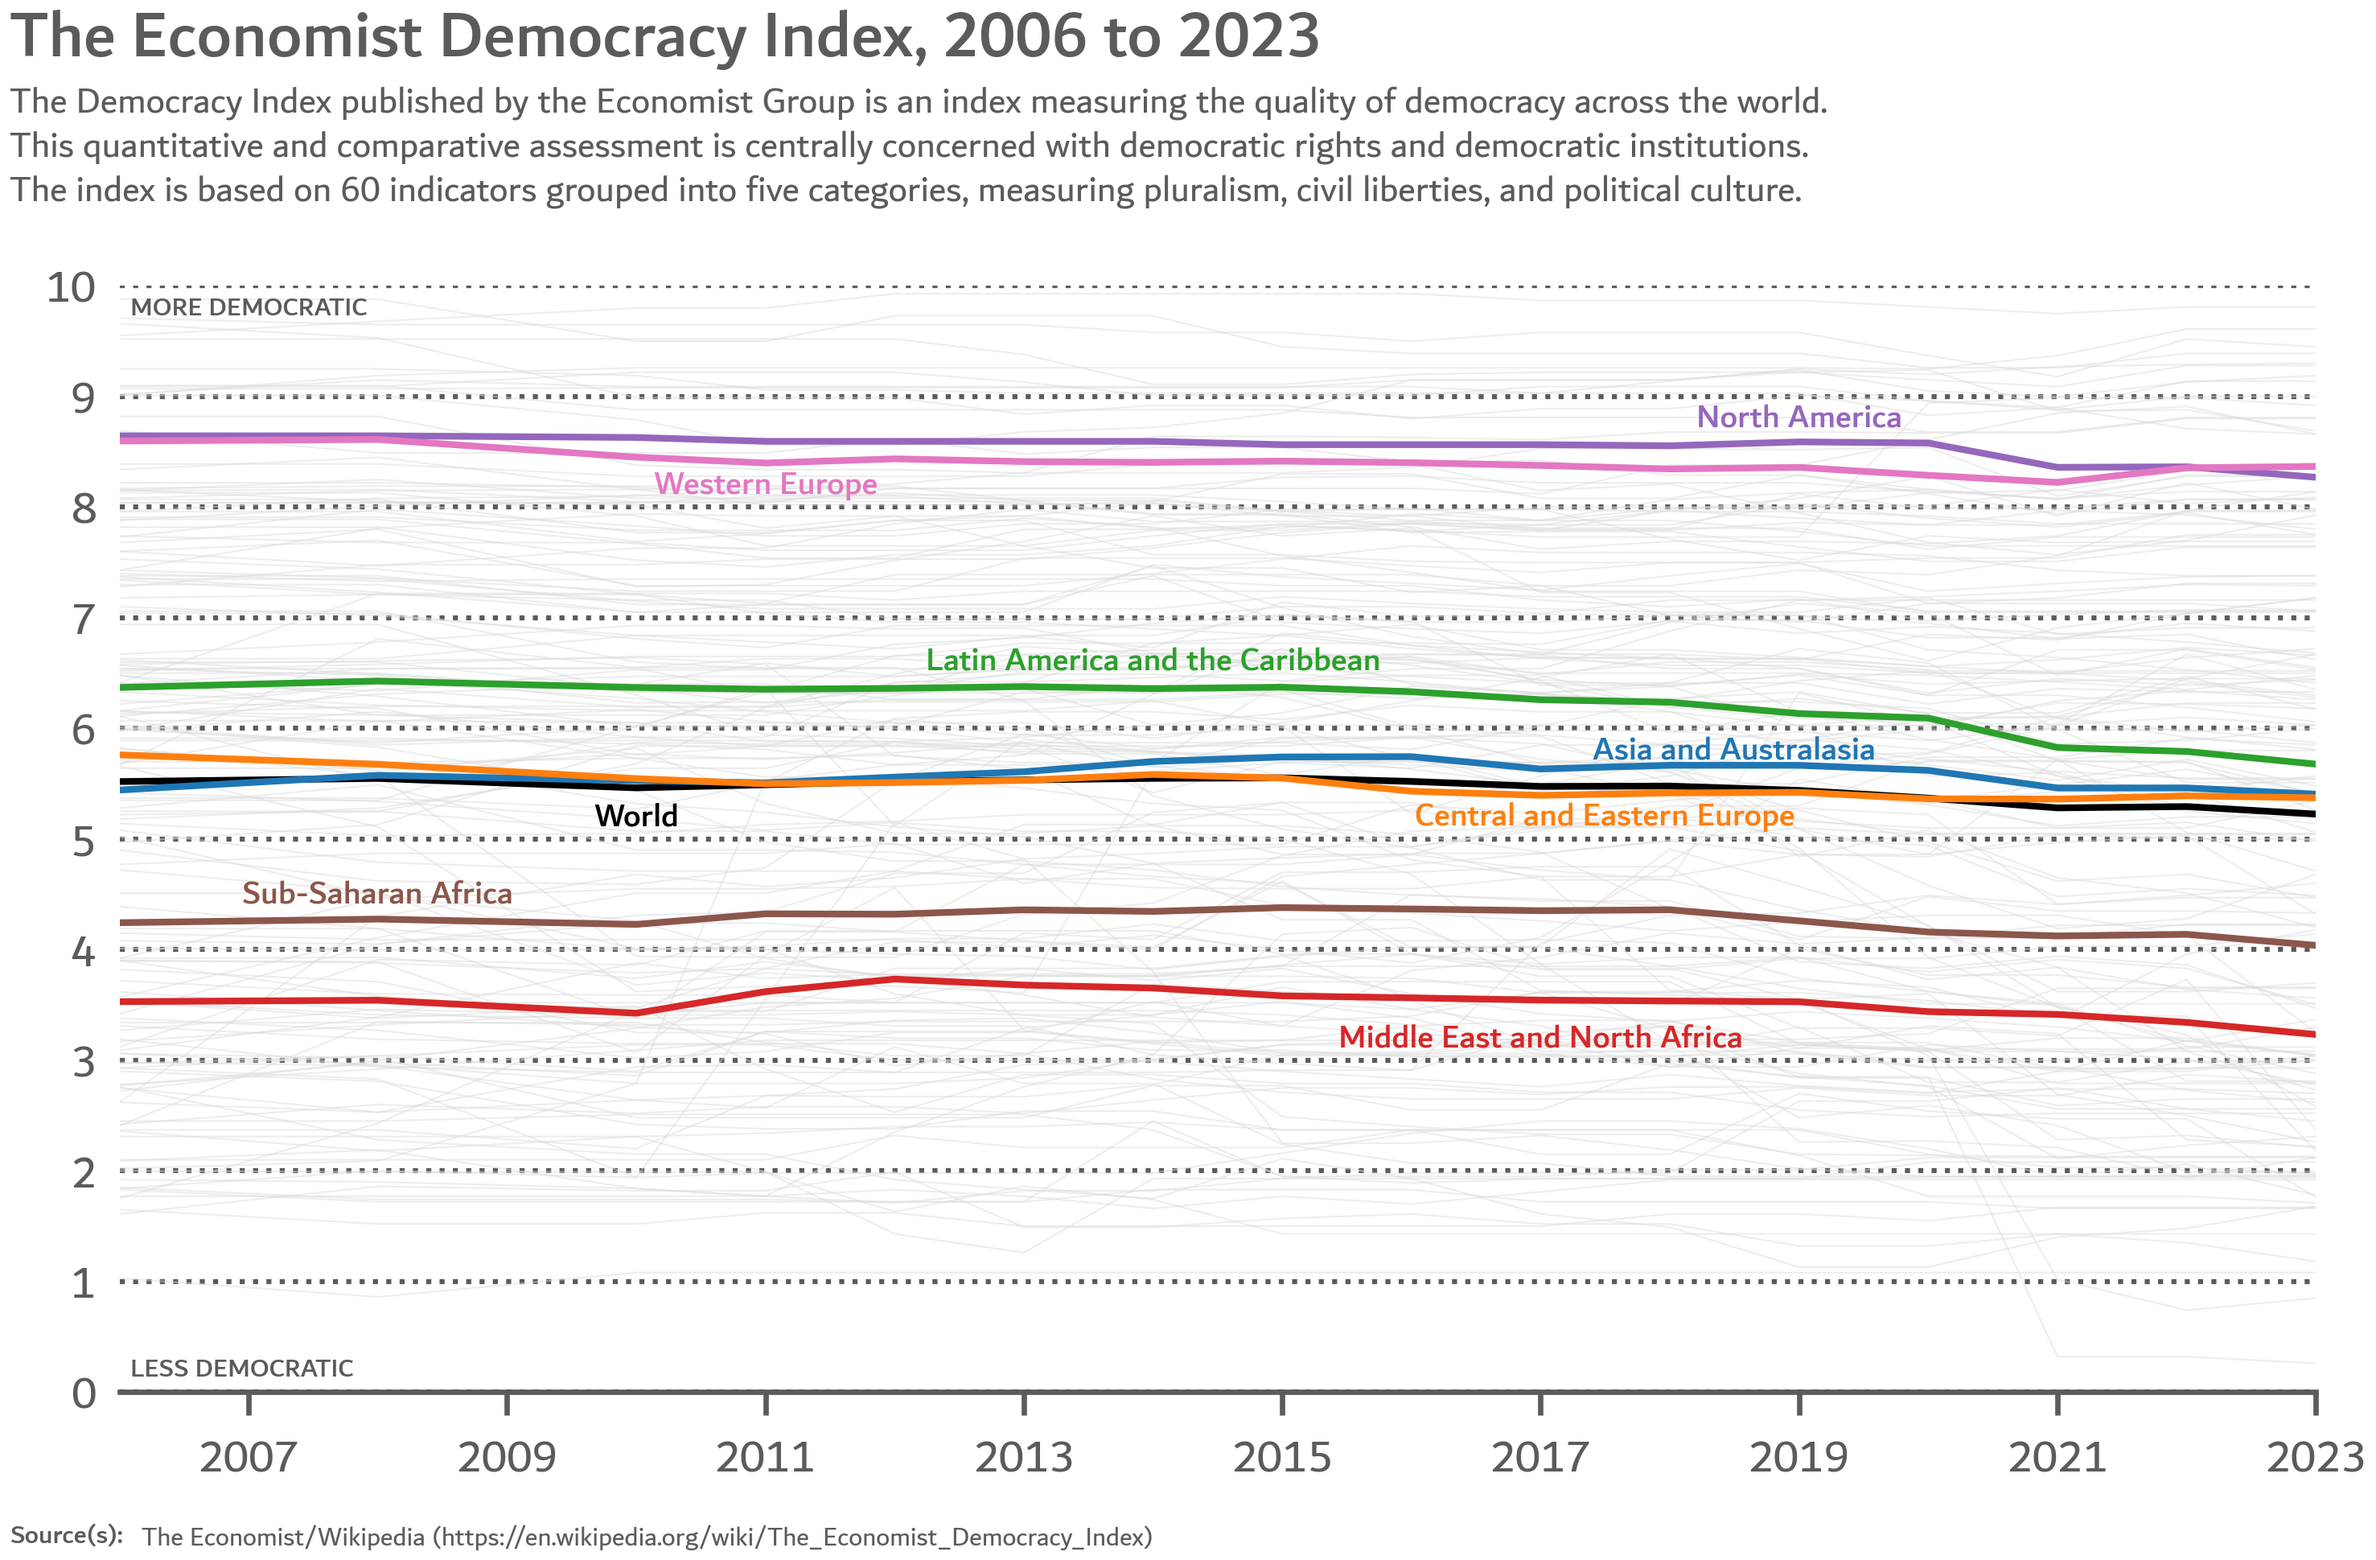
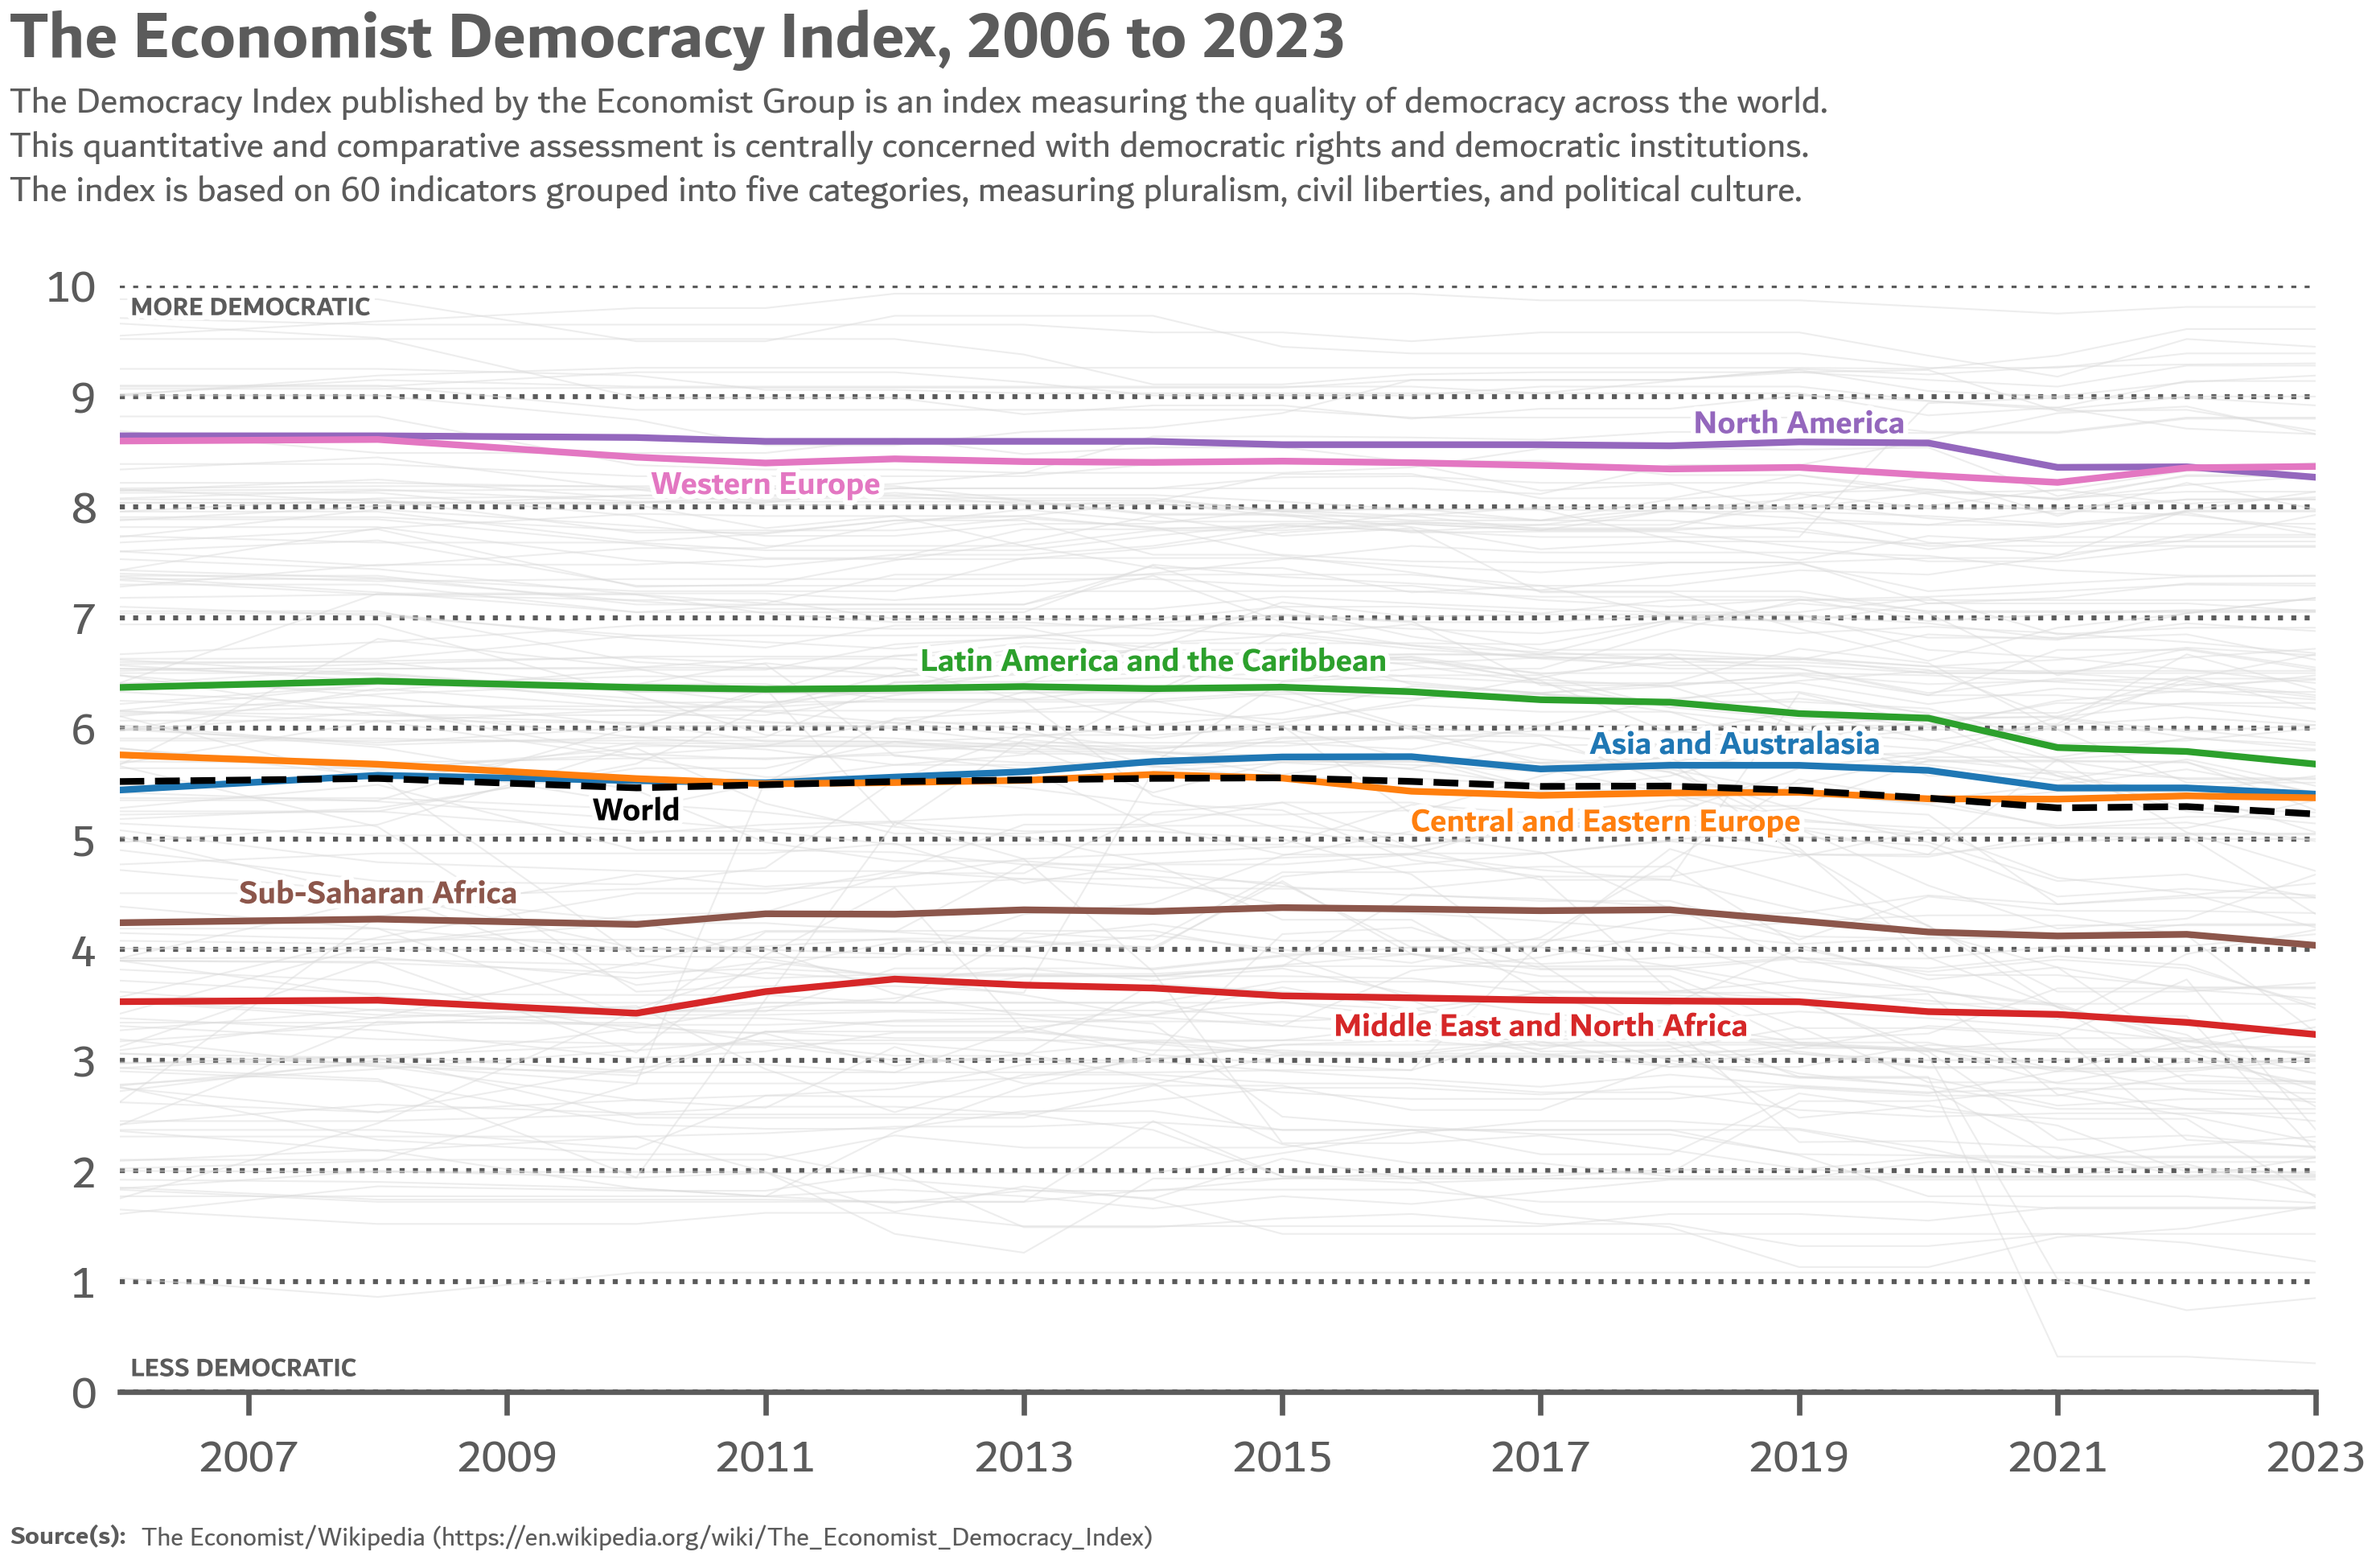
Add white stroke to texts.

diff --git a/code/economist_democracy.py b/code/economist_democracy.py
@@ -1,6 +1,7 @@
 from colors import Colors
 import pandas as pd
 import matplotlib.pyplot as plt
+import matplotlib.patheffects as pe
 plt.style.use("./styles/line.mplstyle")
 
 
@@ -65,29 +66,45 @@ class DemocracyFigures:
 
         world_df = self.data.get_world_average()
         ax.plot(world_df["Year"], world_df["DemocracyIndex"],
-                color=colors.LINE)
+                color=colors.LINE, ls="--", zorder=15)
 
         region_df = self.data.get_region_averages()
         for i, region in enumerate(region_df["Region"].unique()):
             region_data = region_df[region_df["Region"] == region]
             ax.plot(region_data["Year"], region_data["DemocracyIndex"],
                     color=colors.PALETTE[i])
-        ax.text(s="Asia and Australasia", x=2018.5, y=5.8,
-                va="center", ha="center", color=colors.PALETTE[0], weight=600)
-        ax.text(s="Central and Eastern Europe", x=2017.5, y=5.2,
-                va="center", ha="center", color=colors.PALETTE[1], weight=600)
+        ax.text(s="Asia and Australasia", x=2018.5, y=5.85,
+                va="center", ha="center", color=colors.PALETTE[0], weight=600,
+                path_effects=[pe.withStroke(
+                    linewidth=1.5, foreground="w")])
+        ax.text(s="Central and Eastern Europe", x=2017.5, y=5.15,
+                va="center", ha="center", color=colors.PALETTE[1], weight=600,
+                path_effects=[pe.withStroke(
+                    linewidth=1.5, foreground="w")])
         ax.text(s="Latin America and the Caribbean", x=2014, y=6.6,
-                va="center", ha="center", color=colors.PALETTE[2], weight=600)
-        ax.text(s="Middle East and North Africa", x=2017, y=3.2,
-                va="center", ha="center", color=colors.PALETTE[3], weight=600)
-        ax.text(s="North America", x=2019, y=8.8,
-                va="center", ha="center", color=colors.PALETTE[4], weight=600)
+                va="center", ha="center", color=colors.PALETTE[2], weight=600,
+                path_effects=[pe.withStroke(
+                    linewidth=1.5, foreground="w")])
+        ax.text(s="Middle East and North Africa", x=2017, y=3.3,
+                va="center", ha="center", color=colors.PALETTE[3], weight=600,
+                path_effects=[pe.withStroke(
+                    linewidth=1.5, foreground="w")])
+        ax.text(s="North America", x=2019, y=8.75,
+                va="center", ha="center", color=colors.PALETTE[4], weight=600,
+                path_effects=[pe.withStroke(
+                    linewidth=1.5, foreground="w")])
         ax.text(s="Sub-Saharan Africa", x=2008, y=4.5,
-                va="center", ha="center", color=colors.PALETTE[5], weight=600)
+                va="center", ha="center", color=colors.PALETTE[5], weight=600,
+                path_effects=[pe.withStroke(
+                    linewidth=1.5, foreground="w")])
         ax.text(s="Western Europe", x=2011, y=8.2,
-                va="center", ha="center", color=colors.PALETTE[6], weight=600)
-        ax.text(s="World", x=2010, y=5.2,
-                va="center", ha="center", color=colors.BLACK, weight=600)
+                va="center", ha="center", color=colors.PALETTE[6], weight=600,
+                path_effects=[pe.withStroke(
+                    linewidth=1.5, foreground="w")])
+        ax.text(s="World", x=2010, y=5.25,
+                va="center", ha="center", color=colors.BLACK, weight=600,
+                path_effects=[pe.withStroke(
+                    linewidth=1.5, foreground="w")])
 
         self._add_texts(ax)
 
@@ -112,7 +129,7 @@ class DemocracyFigures:
         ax.plot(world_df["Year"], world_df["DemocracyIndex"],
                 color=colors.BLACK)
 
-        self._add_country(ax, "Argentina", (2018, 7.2), colors.PALETTE[0])
+        self._add_country(ax, "Argentina", (2018, 7.25), colors.PALETTE[0])
         self._add_country(ax, "United States", (2021, 7.6), colors.PALETTE[1])
         self._add_country(ax, "Ireland", (2022, 9.4), colors.PALETTE[2])
         self._add_country(ax, "Canada", (2011, 9.3), colors.PALETTE[3])
@@ -132,7 +149,8 @@ class DemocracyFigures:
         ax.plot(country_data["Year"], country_data["DemocracyIndex"],
                 color=color)
         ax.text(s=country, x=text_pos[0], y=text_pos[1], va="center",
-                ha="center", color=color, weight=600)
+                ha="center", color=color, weight=600,
+                path_effects=[pe.withStroke(linewidth=1.5, foreground="w")])
 
     def _add_texts(self, ax: plt.Axes):
         ax.text(
@@ -167,11 +185,13 @@ class DemocracyFigures:
         ax.text(
             s="LESS DEMOCRATIC",
             x=0.005, y=0.01, weight=600, ha="left", va="bottom", size=4,
-            transform=ax.transAxes)
+            transform=ax.transAxes, path_effects=[pe.withStroke(
+                linewidth=1.5, foreground="w")])
         ax.text(
             s="MORE DEMOCRATIC",
             x=0.005, y=0.99, weight=600, ha="left", va="top", size=4,
-            transform=ax.transAxes)
+            transform=ax.transAxes, path_effects=[pe.withStroke(
+                linewidth=1.5, foreground="w")])
 
 
 if __name__ == "__main__":
